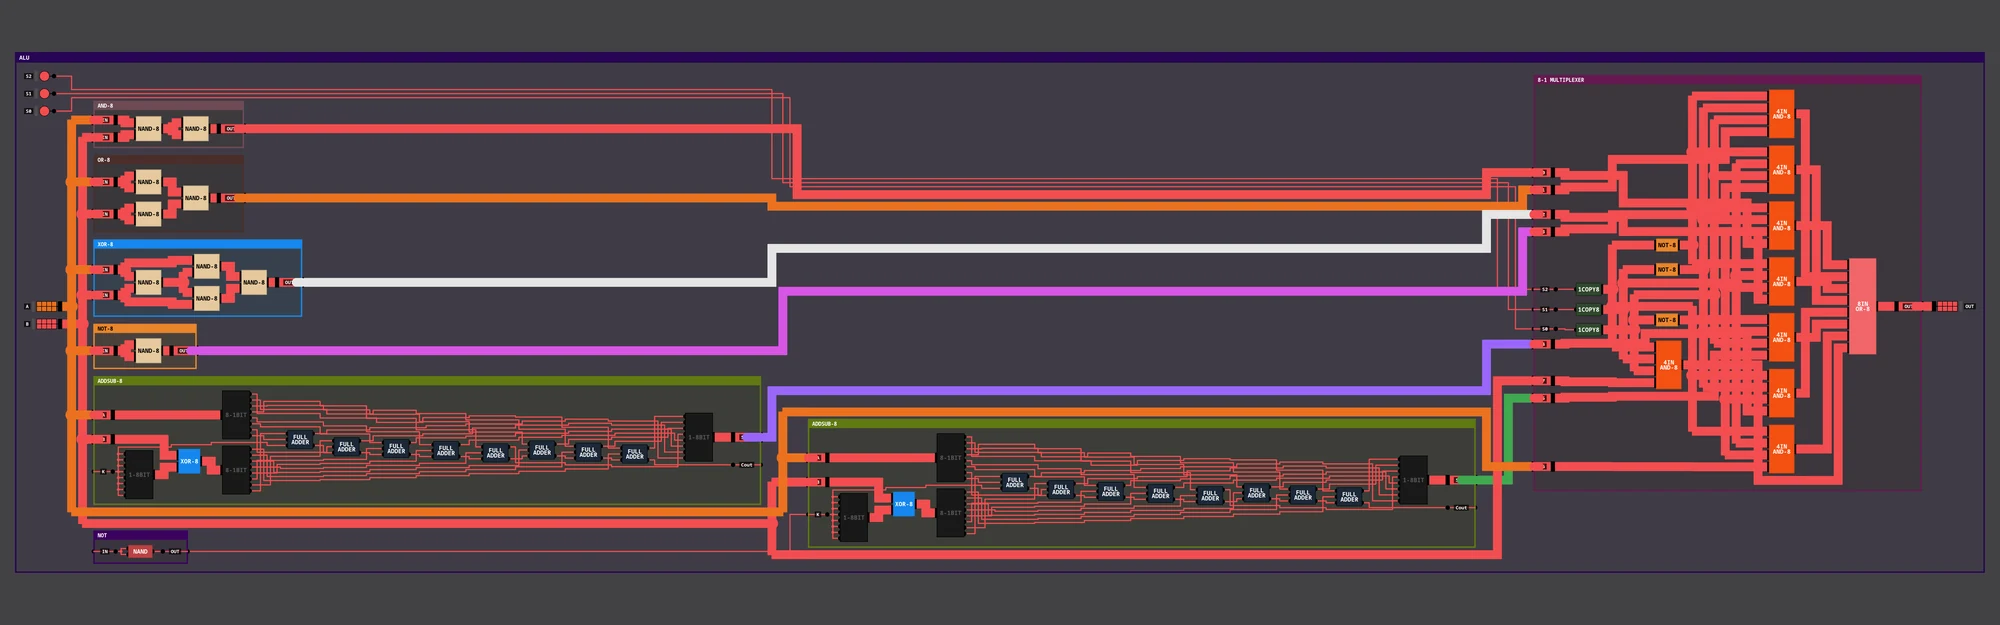
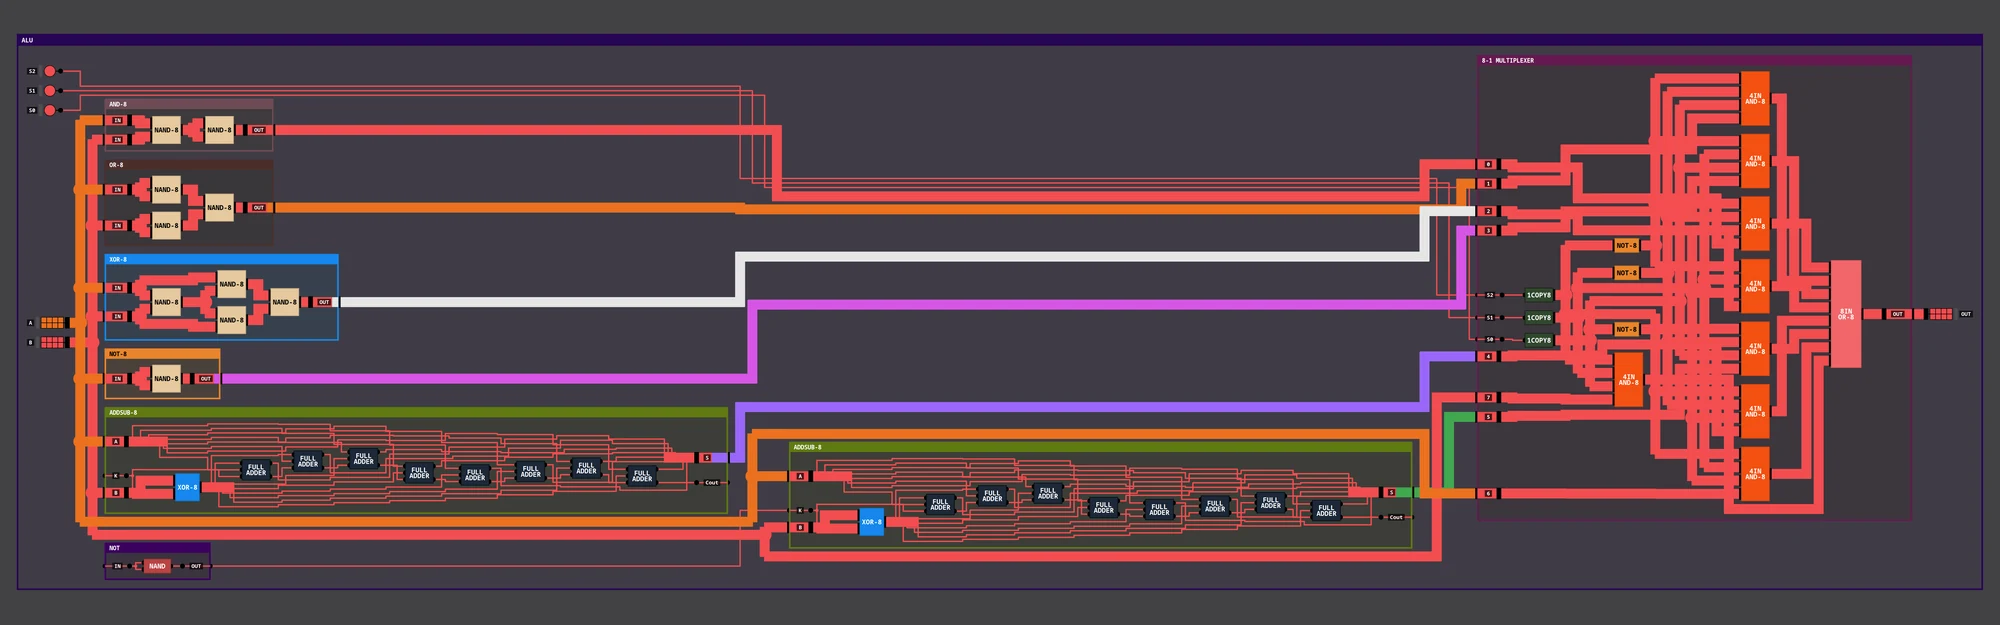
DLS Image Exporter page: whole wires across row breaks, no splitter chips
- The exporter no longer cuts wires at row breaks into N3 > / > N3 tags, and
  leaves out the 8-1BIT / 1-8BIT splitter chips (buses fan straight out into
  single-bit wires). The auto layout section now says so, per the README.
- banner.webp re-rendered with the new version (ALU, sub-chips opened one
  level, --lit, no row wrapping so the whole chip fits the strip): 2000 x 625,
  64 KB.

diff --git a/content/tools/dls-image-exporter/index.md b/content/tools/dls-image-exporter/index.md
@@ -32,9 +32,12 @@ the default for expanded images, rearranges the parts and re-routes the wires in
   most wires run straight.
 - Wires run horizontally and vertically through the gaps between columns, each vertical
   run on its own track, and dots mark where a wire branches.
-- A layout much wider than the target shape wraps into rows. A wire that crosses a row
-  break ends in a named tag (`N3 >`) and continues from the matching tag (`> N3`) on the
-  next row.
+- Bit splitters and mergers are left out. A bus fans straight out into its single-bit
+  wires where they branch off, and joins back up at a multi-bit pin. Each wire is traced
+  through the splitters to the pin that really drives it.
+- A layout much wider than the target shape wraps into rows, and every wire is still
+  drawn whole: a wire crossing a row break runs down the right edge of its row, back
+  along its own lane in the gap between rows, and into the next row.
 
 The other layout keeps my own placement and wire bends, and stretches the space around
 each opened chip to make room.
